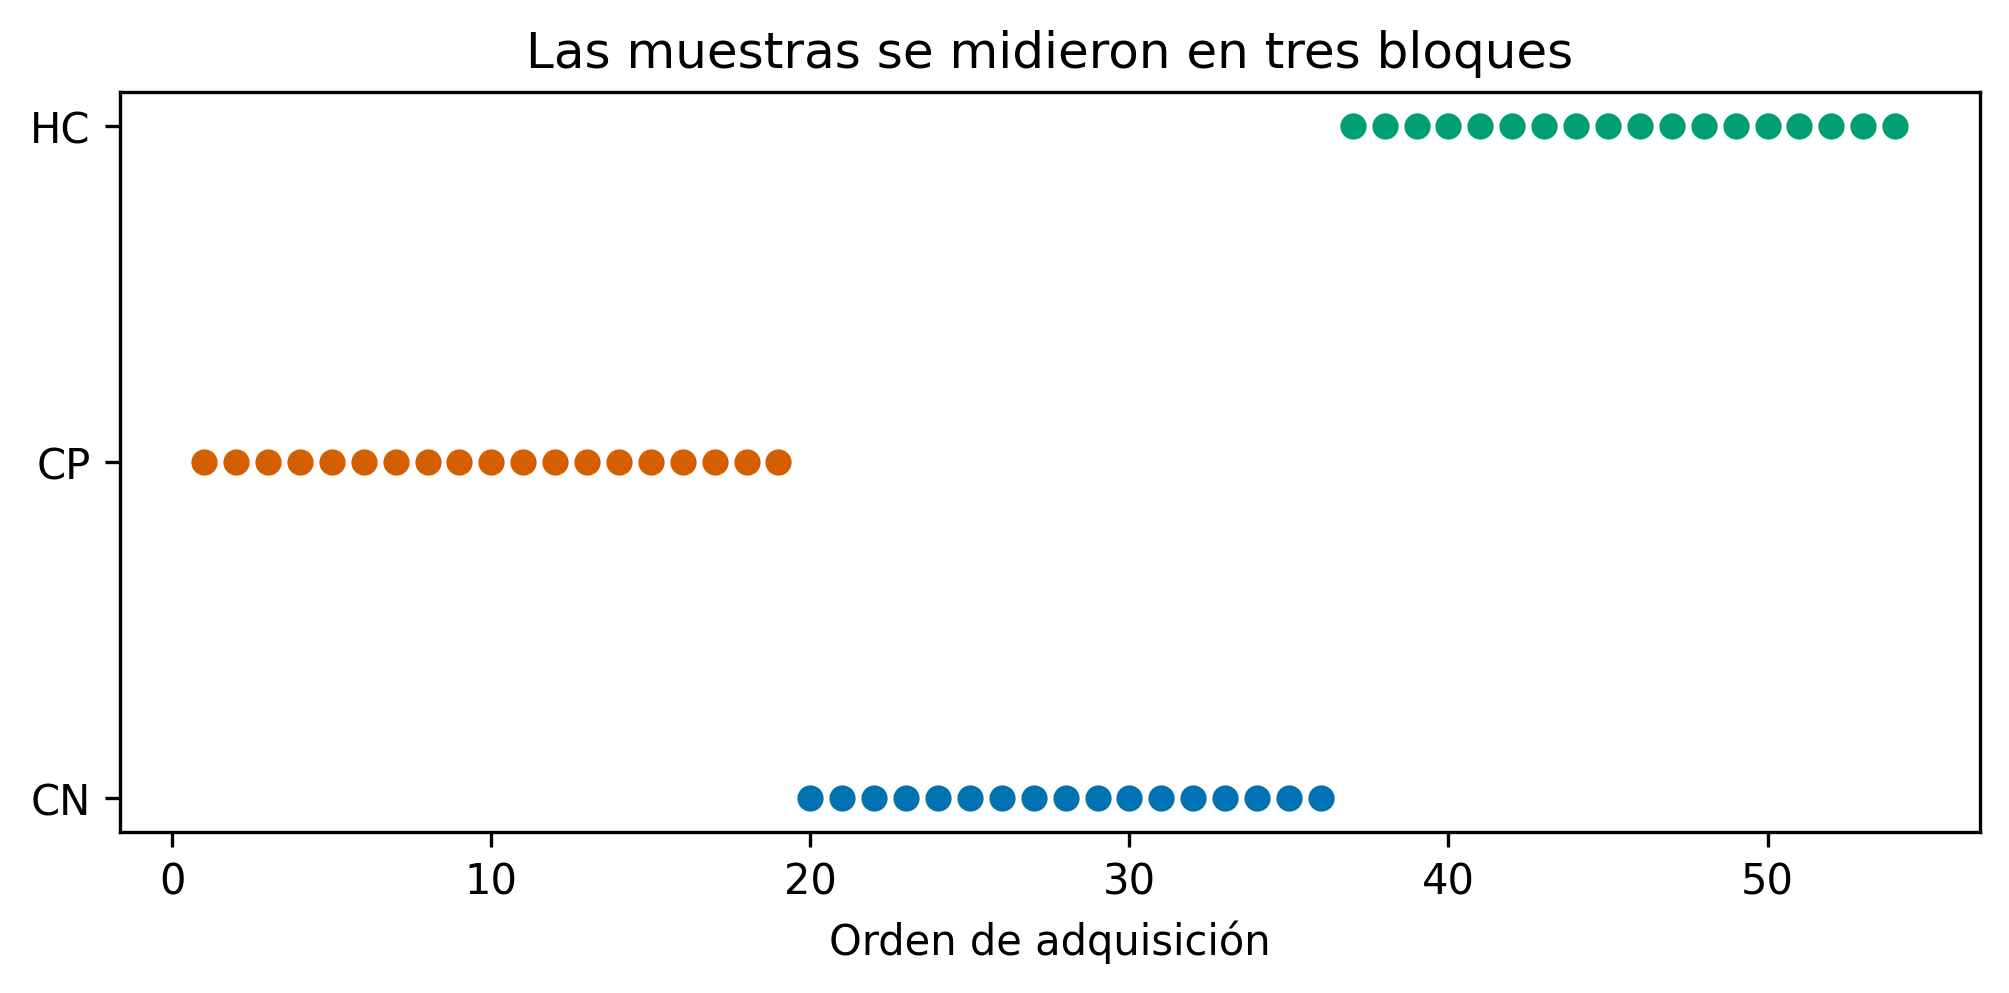
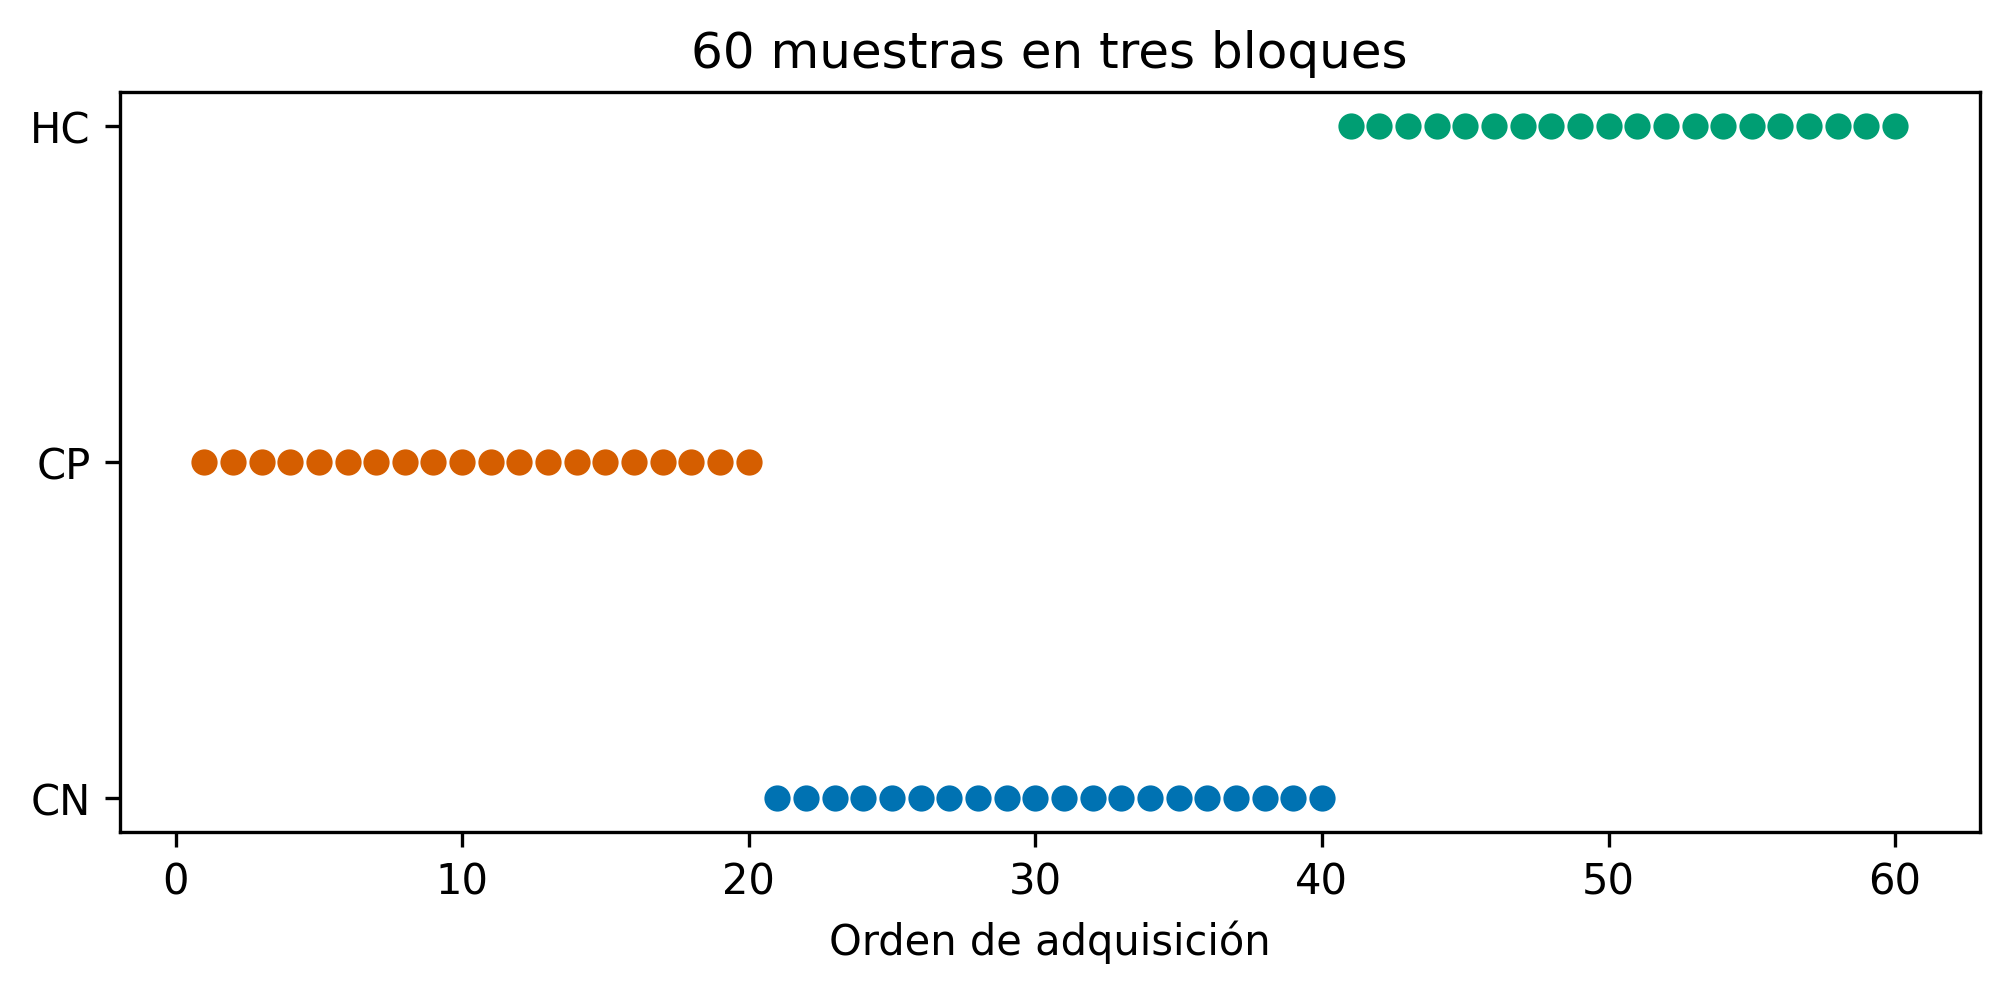
tesis: la corrida B entra en los resultados y en las desviaciones.

diff --git a/tesis-ucaldas/latex/chapters/09-resultados.tex b/tesis-ucaldas/latex/chapters/09-resultados.tex
@@ -1,7 +1,7 @@
 \chapter{Resultados}
 % fuente: results/v3_7/
 
-Cada sección dice la pregunta, la regla, el número, la figura y qué no demuestra. Las cifras salen de \texttt{results/v3\_7/}. Los dibujos de este capítulo son los de la v3.6: no se volvieron a trazar. \Advertencia
+Cada sección dice la pregunta, la regla, el número, la figura y qué no demuestra. Las cifras salen de \texttt{results/v3\_7/}. La figura del orden se trazó de nuevo desde \texttt{results/v3\_7/preanalitica\_orden.tsv}. Las demás figuras de este capítulo conservan el dibujo de la v3.6 cuando el conteo no cambió. \Advertencia
 
 \section{Integridad de los datos}
 % fuente: results/v3_7/suero_embudo.json
@@ -18,13 +18,13 @@ Qué no demuestra. El embudo no dice que las proteínas que salen no existan en 
 
 \section{Tejido}
 % fuente: results/v3_7/k1_etiquetas.json
-¿El cambio del tumor primario se repite entre Tanaka y CPTAC? El primario frente a la mucosa coincide en signo en \TejidoNum\ de \TejidoDen. La metástasis hepática frente a la mucosa coincide en \TejidoMetaNum\ de \TejidoMetaDen.
+¿El cambio del tumor primario se repite entre Tanaka y CPTAC? El primario frente a la mucosa coincide en signo en \TejidoNum\ de \TejidoDen. Esa concordancia está condicionada a que la réplica detecte la proteína: cubre \CoberturaNum\ de \CoberturaDen\ certificadas. Por la regla C15 se reporta así, no como una intersección sobre todo el universo. H1 queda en \HunoVeredicto\ por la cláusula de proteína. La cláusula de vías no se ejecutó y no cambia ese veredicto. La metástasis hepática frente a la mucosa coincide en \TejidoMetaNum\ de \TejidoMetaDen.
 
-Qué no demuestra. No confirma cada etiqueta de tumor y de mucosa. De los controles físicos, CA1 pasa. AQP8 y GUCA2A no se detectan. SLC26A3 no se evalúa por falta de pares.
+Qué no demuestra. No confirma cada etiqueta de tumor y de mucosa. De los controles físicos, CA1 pasa. AQP8 y GUCA2A no se detectan. SLC26A3 no se evalúa por falta de pares. Son controles no medibles en la réplica. \texttt{controles\_tejido.json} deja \texttt{veredicto\_v3\_4} en pasa.
 
 \section{Suero}
 % fuente: results/v3_7/suero_k4_crc_cn.tsv
-¿Alguna proteína separa el cáncer de la colonoscopia negativa? La regla es diferencia y equivalencia con un cambio de 1,5 veces, escrita antes de mirar. En la celda hay \SueroDif\ diferentes, \SueroEq\ equivalentes y \SueroInd\ indeterminadas, sobre \SueroN. La figura~\ref{fig:equivalencia} reparte esas tres clases. Frente a personas sanas hay tres proteínas diferentes, SAA1, LBP y LRG1. La colonoscopia negativa frente a sanos deja una, APOA4.
+¿Alguna proteína separa el cáncer de la colonoscopia negativa? CN son pacientes con otra enfermedad intestinal y síntomas parecidos al cáncer, según el protocolo de PXD055218. No son personas sanas. HC son los sanos. La regla es diferencia y equivalencia con un cambio de 1,5 veces, escrita antes de mirar. En la celda hay \SueroDif\ diferentes, \SueroEq\ equivalentes y \SueroInd\ indeterminadas, sobre \SueroN. La figura~\ref{fig:equivalencia} reparte esas tres clases. Frente a HC hay tres proteínas diferentes, SAA1, LBP y LRG1. CN frente a HC deja una, APOA4.
 
 \begin{figure}[ht]
 \centering
@@ -43,16 +43,16 @@ Qué no demuestra. La diferencia de coagulación puede ser del tubo o del tumor.
 
 \section{Orden de adquisición}
 % fuente: results/v3_7/preanalitica.json
-¿En qué orden se midieron las muestras? Hay \PreCrudos\ crudos válidos y fecha en \PreFecha. El estado es \PreEstado. El AUC del orden entre cáncer y colonoscopia negativa es \PreAuc, con p exacta \PreP. La cota que se había calculado para seis crudos sin fecha llega hasta \PreCotaMax; en esta corrida no se usa, porque los \PreCrudos\ tienen fecha. La correlación de Spearman de la piel con el orden, en cáncer y colonoscopia negativa, es \PreRhoPiel. Los rangos de los tres grupos no se solapan. La figura~\ref{fig:orden} es el dibujo de la v3.6. Las cifras de este párrafo salen de \texttt{results/v3\_7/preanalitica.json}.
+¿En qué orden se midieron las muestras? Hay \PreCrudos\ crudos válidos y fecha en \PreFecha. El estado es \PreEstado. El AUC del orden entre cáncer y colonoscopia negativa es \PreAuc, con p exacta \PreP. Con las \PreFecha\ fechas ese AUC es el del orden observado; no se usa una cota por fechas faltantes. El orden y el grupo están confundidos por completo, así que el Spearman de CP y CN juntos no separa uno del otro. Dentro de CP no hay deriva. Dentro de CN suben los precursores: el q de Benjamini--Hochberg, sobre los diez Spearman dentro de grupo, es \BhPrecursoresCn\ para los precursores y \BhPielCn\ para la piel. HC no se evalúa por muestra. La figura~\ref{fig:orden} sale de \texttt{results/v3\_7/preanalitica\_orden.tsv}.
 
 \begin{figure}[ht]
 \centering
 \includegraphics[width=0.9\textwidth]{figures/Fig4-2_orden_adquisicion.png}
-\caption{Orden de adquisición por grupo. Dibujo de la v3.6. La lectura numérica vigente está en \texttt{results/v3\_7/preanalitica.json}.}
+\caption{Orden de adquisición de las \PreFecha\ muestras con fecha. CP, luego CN y al final HC. Fuente: \texttt{results/v3\_7/preanalitica\_orden.tsv}.}
 \label{fig:orden}
 \end{figure}
 
-Los grupos se midieron en bloques: primero el cáncer, después la colonoscopia negativa y al final los sanos. La piel y la coagulación cambian con el orden. Con estos datos no se puede separar el efecto del grupo del efecto del lote de adquisición. Eso no crea una proteína del tumor: refuerza que la separación del suero no es atribuible al tumor. Las diferencias frente a los sanos comparan también bloques de adquisición distintos.
+Los grupos se midieron en bloques: primero el cáncer, después la colonoscopia negativa y al final HC. El Spearman de CP y CN juntos no separa el orden del grupo. Dentro de CP no hay deriva. Dentro de CN suben los precursores. Eso no crea una proteína del tumor: la separación del suero no se atribuye al tumor. Las diferencias frente a HC comparan también bloques de adquisición distintos.
 
 Qué no demuestra. No atribuye la separación al tumor. No imputa fechas: las que faltaban se leyeron del crudo cuyo SHA-1 coincide con PRIDE.
 
@@ -76,7 +76,7 @@ H5 queda en \HcincoEstado. El universo común tiene \HcincoUniverso\ genes. La d
 H6 queda en \HseisEstado. La tabla está degenerada: una columna queda vacía. Qué no demuestra: no informa si el tipo celular influye. No es evidencia ni a favor ni en contra.
 
 % fuente: results/v3_7/h7_visibilidad_en_sangre.json
-H7 queda en \HsieteEstado. Álvez da \HsieteAlvez\ y el atlas de sangre da \HsieteHpa. Papier no se evalúa. Qué no demuestra: no anticipa qué proteína tumoral se verá en sangre y no es una prueba diagnóstica.
+H7 queda en \HsieteEstado. Álvez da \HsieteAlvez\ y el atlas de sangre da \HsieteHpa. Papier no se evalúa. El secundario, con ESM-2 y TMbed, queda en \HsieteSec\ y no entra en el veredicto. Qué no demuestra: no anticipa qué proteína tumoral se verá en sangre y no es una prueba diagnóstica.
 
 % fuente: results/v3_7/h8_carga_tumoral.json
 H8 queda en \HochoEstado. El universo de la prueba tiene \HochoUniverso\ proteínas y las tumorales epiteliales son \HochoTumorales. Las plaquetas difieren entre el estadio IV y los estadios I--II, con p \HochoPlaquetasP. Qué no demuestra: no dice que el estadio IV no lleve proteína del tumor. Un DIA de suero sin depleción ve sobre todo proteínas abundantes. El metadato dice plasma y el protocolo de PRIDE dice suero: se anota sin decidir. La diferencia de plaquetas no se explica por el orden, porque esas muestras se aleatorizaron. Puede ser del tubo o biológica, y con la cita disponible no se separan.
@@ -100,4 +100,4 @@ El mapa de genes de Tanaka, el de esta corrida, deja el universo de H8 en \Hocho
 
 Los sesenta crudos coinciden con el SHA-1 de PRIDE y tienen fecha. El estado de la preanalítica es \PreEstado. Qué no demuestra: no une los sanos. El reporte nombra esas corridas como \texttt{Normal\_} dentro de un \texttt{.mzML}. El crudo se llama \texttt{HC\_}. \texttt{union\_crudos\_calidad.tsv} deja esa unión en falso. No se fabricó la igualdad por el número.
 
-Quedan sin fichero en \texttt{results/v3\_7/} las vías del suero, la cláusula de vías de H1, el GO del tejido, el catálogo de candidatas, los neoantígenos y el PRTC. No hay resultado de esas piezas. El sello no trae el manifiesto de entradas. El determinismo repetido es solo el del modelo M2. La lista y la causa están en \texttt{docs/estado\_v3\_7.md}.
+El GO del tejido está en \texttt{go\_tejido.json}. La concordancia de signo del NES, para los términos con FDR de hasta 0,25 en CPTAC que también tienen NES en Tanaka, es \GoConNum\ de \GoConDen. Es descriptiva y no emite un veredicto de H1. La priorización secuencial deja \Priori6\ proteínas en el paso 6 y \Priori5\ en el paso 5: son hipótesis para cohortes futuras, no biomarcadores. BAIAP3 sale en el filtro global de 1~\% y CEACAM5 no está entre los grupos del report; el detalle está en \texttt{auditoria\_rai2025.tsv}. Las piezas que la enmienda declara no ejecutadas se leen en el capítulo de desviaciones. El certificado queda en \CertificadoEstado.

diff --git a/tesis-ucaldas/latex/chapters/11-desviaciones.tex b/tesis-ucaldas/latex/chapters/11-desviaciones.tex
@@ -1,0 +1,46 @@
+\chapter{Desviaciones del preregistro y trabajo futuro}
+% fuente: config/preregistro_v3.yaml#enmienda_v3_7_cierre
+% fuente: config/correspondencia_propuesta.tsv
+
+Lo que no se ejecutó no se presenta como resultado. La enmienda \texttt{enmienda\_v3\_7\_cierre} lo dejó escrito antes de la corrida. \Advertencia
+
+\section{Correspondencia con la propuesta}
+La tabla sale de \texttt{config/correspondencia\_propuesta.tsv}. La tesis y la web leen ese fichero.
+
+{\small
+\input{correspondencia}
+}
+
+\section{Lo que no se ejecutó}
+
+\paragraph{Vías del suero.}
+El preregistro v3, sección 12, pedía el GSEA de CPTAC dentro de la corrida limpia. No se ejecutó. Haría falta recalcular ese GSEA en la misma corrida, no copiarlo de una anterior.
+
+\paragraph{Cláusula de vías de H1.}
+No se ejecutó. No cambia el veredicto: la cláusula de proteína ya deja H1 en \HunoVeredicto.
+
+\paragraph{Unión HC y XIC.}
+Hace falta convertir los \PreCrudos\ crudos y extraer el XIC. HC queda no evaluable a nivel de muestra. El report nombra esas corridas como \texttt{Normal\_} en un \texttt{.mzML} y el crudo se llama \texttt{HC\_}.
+
+\paragraph{Deriva del PRTC.}
+El depositante añadió 200~fmol de Pierce 88320 a cada muestra, según el protocolo de PRIDE. Medirlo exige el XIC de los péptidos pesados en los crudos. No se ejecutó. Se cita por nombre y número de catálogo, sin enlace de producto.
+
+\paragraph{Redes de coexpresión.}
+La hipótesis H2 del preregistro v2 no permite interpretar una red sin al menos 1000 redes reconectadas que conserven los grados. No se ejecutó.
+
+\paragraph{Catálogo de candidatas.}
+En \texttt{metadata/tesis/candidatas\_literatura.tsv} hay 35 de 37 fuentes sin verificar. Solo se auditaron las dos verificadas. BAIAP3 está entre los grupos del report y sale en el filtro global de 1~\%. CEACAM5 no aparece entre esos grupos. El recorrido está en \texttt{auditoria\_rai2025.tsv} \cite{rai2025}.
+
+\paragraph{Neoantígenos.}
+El report de DIA-NN se buscó solo contra UniProt humano. Hacen falta las secuencias del material suplementario de Rai y una búsqueda nueva \cite{rai2025}.
+
+\section{Lo que esta corrida sí deja dicho}
+
+El secundario de H7, con ESM-2 y TMbed, es \HsieteSec\ en \texttt{h7\_visibilidad\_en\_sangre.json}. No entra en el veredicto. No se usa como resultado estable entre versiones.
+
+H6 usó el respaldo del HPA porque Pelka 2021 no estaba disponible. La prueba quedó degenerada y el estado es \HseisEstado.
+
+H8 queda en \HochoEstado: \HochoTumorales\ tumorales epiteliales en un universo de \HochoUniverso.
+
+\section{Recomendación de diseño}
+Una cohorte futura necesita el orden de adquisición aleatorizado o equilibrado entre grupos, y controles sintomáticos. CN ya son pacientes con otra enfermedad intestinal, no personas sanas. Con el orden en bloques no se puede separar el grupo del lote.

diff --git a/tesis-ucaldas/latex/cifras.tex b/tesis-ucaldas/latex/cifras.tex
@@ -72,12 +72,30 @@
 \newcommand{\PreAuc}{0,000}
 % fuente: results/v3_7/preanalitica.json#calculado_con_legibles.auc.p_exacta_mann_whitney
 \newcommand{\PreP}{1,5 × 10⁻¹¹}
-% fuente: results/v3_7/preanalitica.json#cota_con_60.auc_max
-\newcommand{\PreCotaMax}{0,193}
 % fuente: results/v3_7/preanalitica.json#spearman.piel.rho
 \newcommand{\PreRhoPiel}{−0,76}
 % fuente: results/v3_7/preanalitica.json#n_con_fecha
 \newcommand{\PreFecha}{60}
+% fuente: results/v3_7/k1_etiquetas.json#cobertura.numerador
+\newcommand{\CoberturaNum}{147}
+% fuente: results/v3_7/k1_etiquetas.json#cobertura.denominador
+\newcommand{\CoberturaDen}{688}
+% fuente: results/v3_7/k1_etiquetas.json#h1_veredicto
+\newcommand{\HunoVeredicto}{Rechaza H1}
+% fuente: results/v3_7/preanalitica.json#bh_descriptivo.q.CN:log2_n_precursores
+\newcommand{\BhPrecursoresCn}{0,027}
+% fuente: results/v3_7/preanalitica.json#bh_descriptivo.q.CN:piel
+\newcommand{\BhPielCn}{0,056}
+% fuente: results/v3_7/go_tejido.json#concordancia_nes.numerador
+\newcommand{\GoConNum}{16}
+% fuente: results/v3_7/go_tejido.json#concordancia_nes.denominador
+\newcommand{\GoConDen}{16}
+% fuente: results/v3_7/priorizacion_embudo.json#pasos
+\newcommand{\Priori5}{20}
+% fuente: results/v3_7/priorizacion_embudo.json#pasos
+\newcommand{\Priori6}{0}
+% fuente: results/v3_7/h7_visibilidad_en_sangre.json#modelo_secundario.auc_secundario
+\newcommand{\HsieteSec}{0,47738}
 % fuente: results/v3_7/preanalitica.json#n_crudos_validos
 \newcommand{\PreCrudos}{60}
 % fuente: results/v3_7/k7_control_tecnico.json#coagulacion.p_kruskal

diff --git a/tesis-ucaldas/latex/correspondencia.tex b/tesis-ucaldas/latex/correspondencia.tex
@@ -1,0 +1,14 @@
+% Generado desde config/correspondencia_propuesta.tsv. No editar a mano.
+\begin{tabular}{p{3.2cm}p{3.4cm}p{7.2cm}}
+\textbf{Punto} & \textbf{Estado} & \textbf{Dónde está} \\
+Integrar la proteómica de las tres cohortes & cumplido & suero\_embudo.json \\
+Proteínas diferenciales en suero & cumplido & suero\_k4\_crc\_cn.tsv \\
+Reproducibilidad entre cohortes de tejido & cumplido\_reformulado & k1\_etiquetas.json \\
+Priorización de candidatas & cumplido\_reformulado & priorizacion\_embudo.json \\
+GO ORA y GSEA del tejido & cumplido & go\_tejido.json \\
+Redes de coexpresión & desviacion\_declarada & preregistro\_v2.hipotesis.h2 \\
+Aprendizaje automático interpretable & cumplido & ml\_explicacion.json \\
+Score de candidatas & cumplido\_reformulado & priorizacion.tsv \\
+Ampliar cohortes & no\_cumplido & trabajo futuro \\
+Robustecer la validación & cumplido & certificado.json \\
+\end{tabular}

diff --git a/tesis-ucaldas/latex/chapters/10-discusion.tex b/tesis-ucaldas/latex/chapters/10-discusion.tex
@@ -1,6 +1,6 @@
 \chapter{Discusión}
 % REDACTAR-AUTOR: ampliar cada sección. Los párrafos de abajo son la base, con las cifras de results/v3_7/ y las citas ya verificadas.
-% REDACTAR-AUTOR: el universo de H8 cambió al usar el mapa de genes de esta corrida. Faltan las vías del suero, la cláusula de H1, el GO del tejido, el catálogo, los neoantígenos y el PRTC. No redactar un resultado para esas piezas: no tienen fichero.
+% REDACTAR-AUTOR: el universo de H8 cambió al usar el mapa de genes de esta corrida. El GO del tejido sí tiene fichero y es descriptivo. Siguen sin fichero las vías del suero, la cláusula de vías de H1, el catálogo, los neoantígenos y el PRTC. No redactar un resultado para esas piezas.
 
 \section{El diseño en bloques}
 % fuente: results/v3_7/preanalitica.json

diff --git a/tesis-ucaldas/latex/main.tex b/tesis-ucaldas/latex/main.tex
@@ -19,6 +19,7 @@
 \input{chapters/08-metodos}
 \input{chapters/09-resultados}
 \input{chapters/10-discusion}
+\input{chapters/11-desviaciones}
 \input{chapters/90-conclusiones}
 \input{chapters/91-anexos}
 

diff --git a/tesis-ucaldas/paquete-redaccion-v3_7/cifras-v3_7.md b/tesis-ucaldas/paquete-redaccion-v3_7/cifras-v3_7.md
@@ -40,9 +40,18 @@ Salen de `results/v3_7/` por `scripts/v3/exportar_cifras_v3_7.py`.
 | \PreEstado | Calculado | results/v3_7/preanalitica.json#estado |
 | \PreAuc | 0,000 | results/v3_7/preanalitica.json#calculado_con_legibles.auc.valor |
 | \PreP | 1,5 × 10⁻¹¹ | results/v3_7/preanalitica.json#calculado_con_legibles.auc.p_exacta_mann_whitney |
-| \PreCotaMax | 0,193 | results/v3_7/preanalitica.json#cota_con_60.auc_max |
 | \PreRhoPiel | −0,76 | results/v3_7/preanalitica.json#spearman.piel.rho |
 | \PreFecha | 60 | results/v3_7/preanalitica.json#n_con_fecha |
+| \CoberturaNum | 147 | results/v3_7/k1_etiquetas.json#cobertura.numerador |
+| \CoberturaDen | 688 | results/v3_7/k1_etiquetas.json#cobertura.denominador |
+| \HunoVeredicto | Rechaza H1 | results/v3_7/k1_etiquetas.json#h1_veredicto |
+| \BhPrecursoresCn | 0,027 | results/v3_7/preanalitica.json#bh_descriptivo.q.CN:log2_n_precursores |
+| \BhPielCn | 0,056 | results/v3_7/preanalitica.json#bh_descriptivo.q.CN:piel |
+| \GoConNum | 16 | results/v3_7/go_tejido.json#concordancia_nes.numerador |
+| \GoConDen | 16 | results/v3_7/go_tejido.json#concordancia_nes.denominador |
+| \Priori5 | 20 | results/v3_7/priorizacion_embudo.json#pasos |
+| \Priori6 | 0 | results/v3_7/priorizacion_embudo.json#pasos |
+| \HsieteSec | 0,47738 | results/v3_7/h7_visibilidad_en_sangre.json#modelo_secundario.auc_secundario |
 | \PreCrudos | 60 | results/v3_7/preanalitica.json#n_crudos_validos |
 | \CalidadCoagP | 0,00099 | results/v3_7/k7_control_tecnico.json#coagulacion.p_kruskal |
 | \CalidadPielP | 3,4 × 10⁻⁶ | results/v3_7/k7_control_tecnico.json#piel.p_kruskal |

diff --git a/docs/web_pendiente.md b/docs/web_pendiente.md
@@ -1,0 +1,14 @@
+# Web v3.7 pendiente
+
+La corrida B quedó en `results/v3_7/` con certificado publicable. La web no se reconstruyó en esta sesión y no se desplegó.
+
+Queda por hacer, en este orden:
+
+- `scripts/v3/exportar_sitio_v3_7.py`, sin modificar el generador de v3.6.
+- Mover las páginas actuales a `sitio/archivo/v3_6/` sin borrarlas.
+- Franja del certificado leída de `results/v3_7/certificado.json`, visible en todas las páginas.
+- CN descrito como pacientes sintomáticos con otra enfermedad intestinal, no como sanos.
+- Página `lo-prometido` desde `config/correspondencia_propuesta.tsv`.
+- Gráficos 2, 3, 5, 8 y 10 como mínimo: embudo del suero, celda 0/166/118, R1, bosque de AUC y orden de las 60 muestras.
+
+No se crea la etiqueta `v3.7-final`. Las dos corridas coinciden en los números principales, pero no comparten sello: la primera no declaraba `results/certified/inference_audit.json` y su certificado quedó `no_publicable`. Publicar en producción es decisión del autor.
